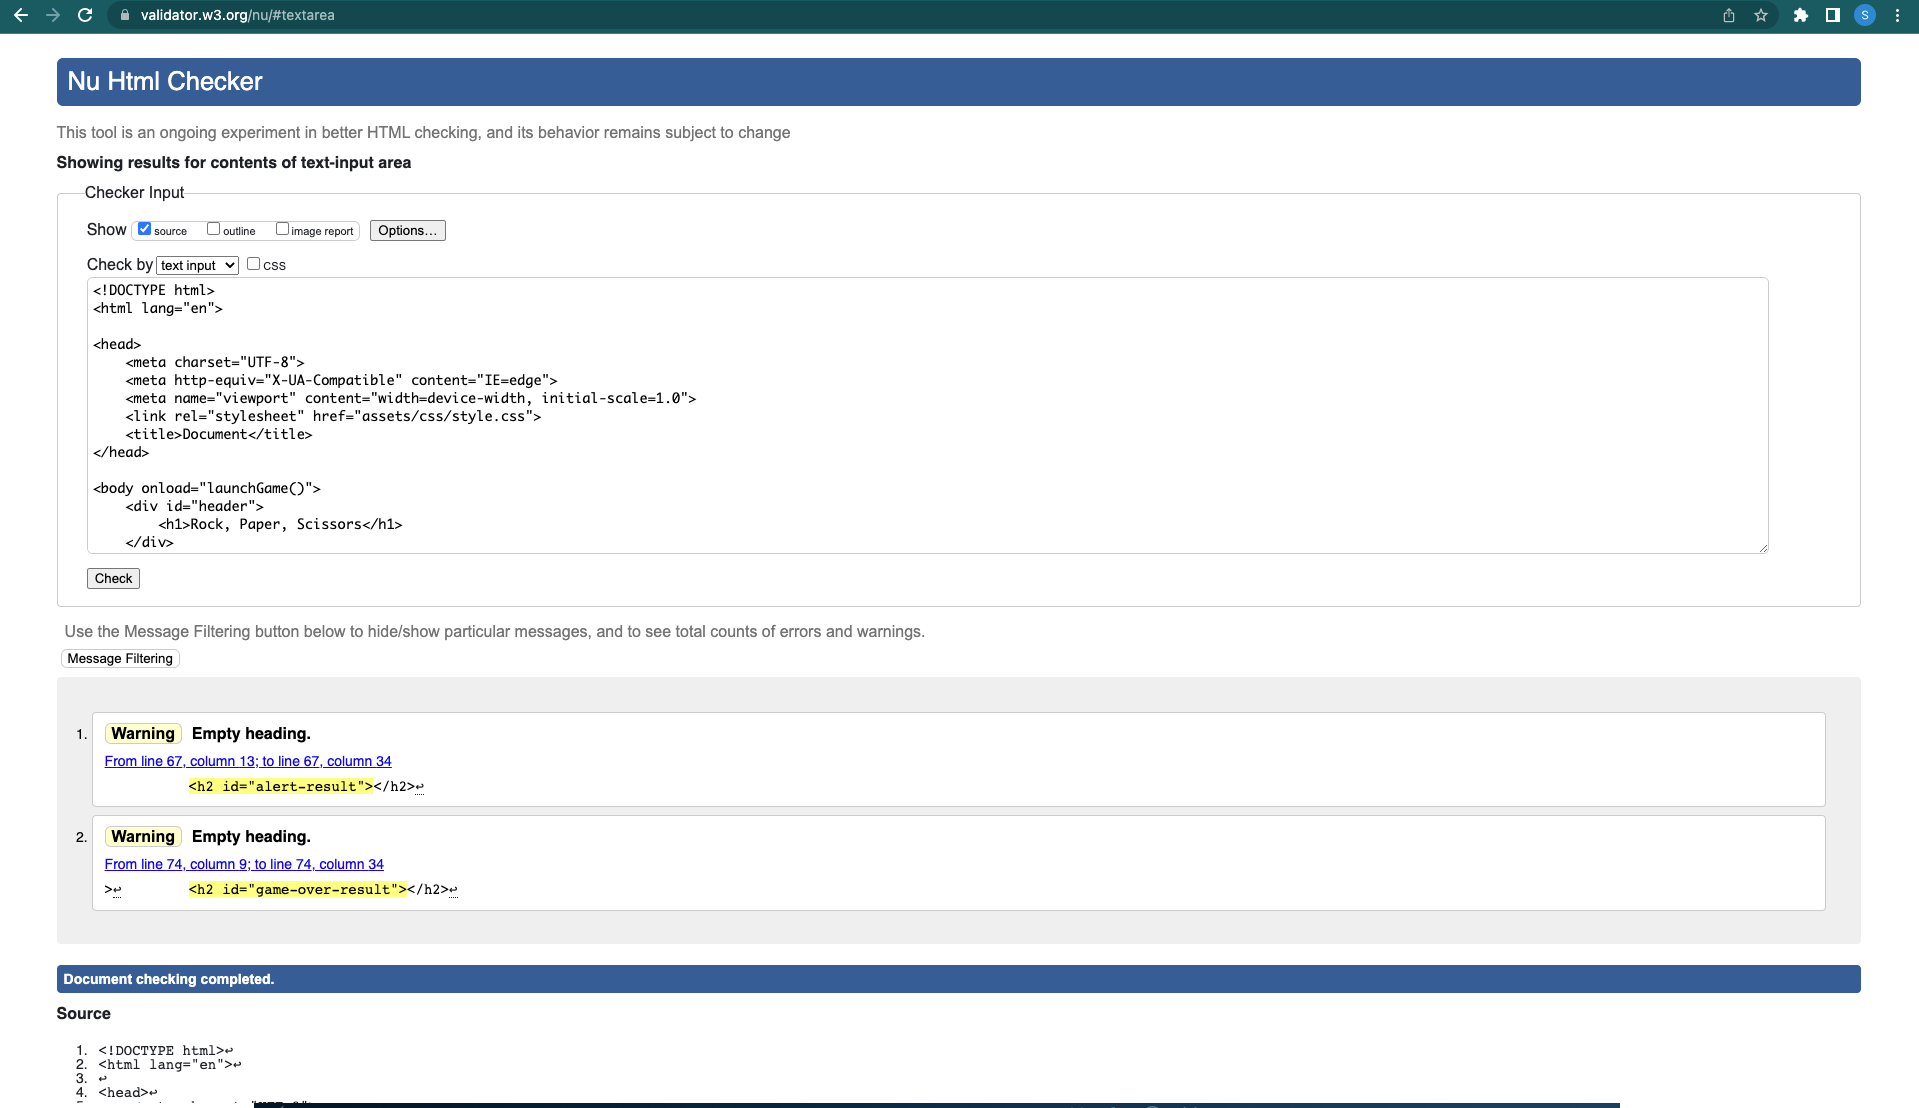
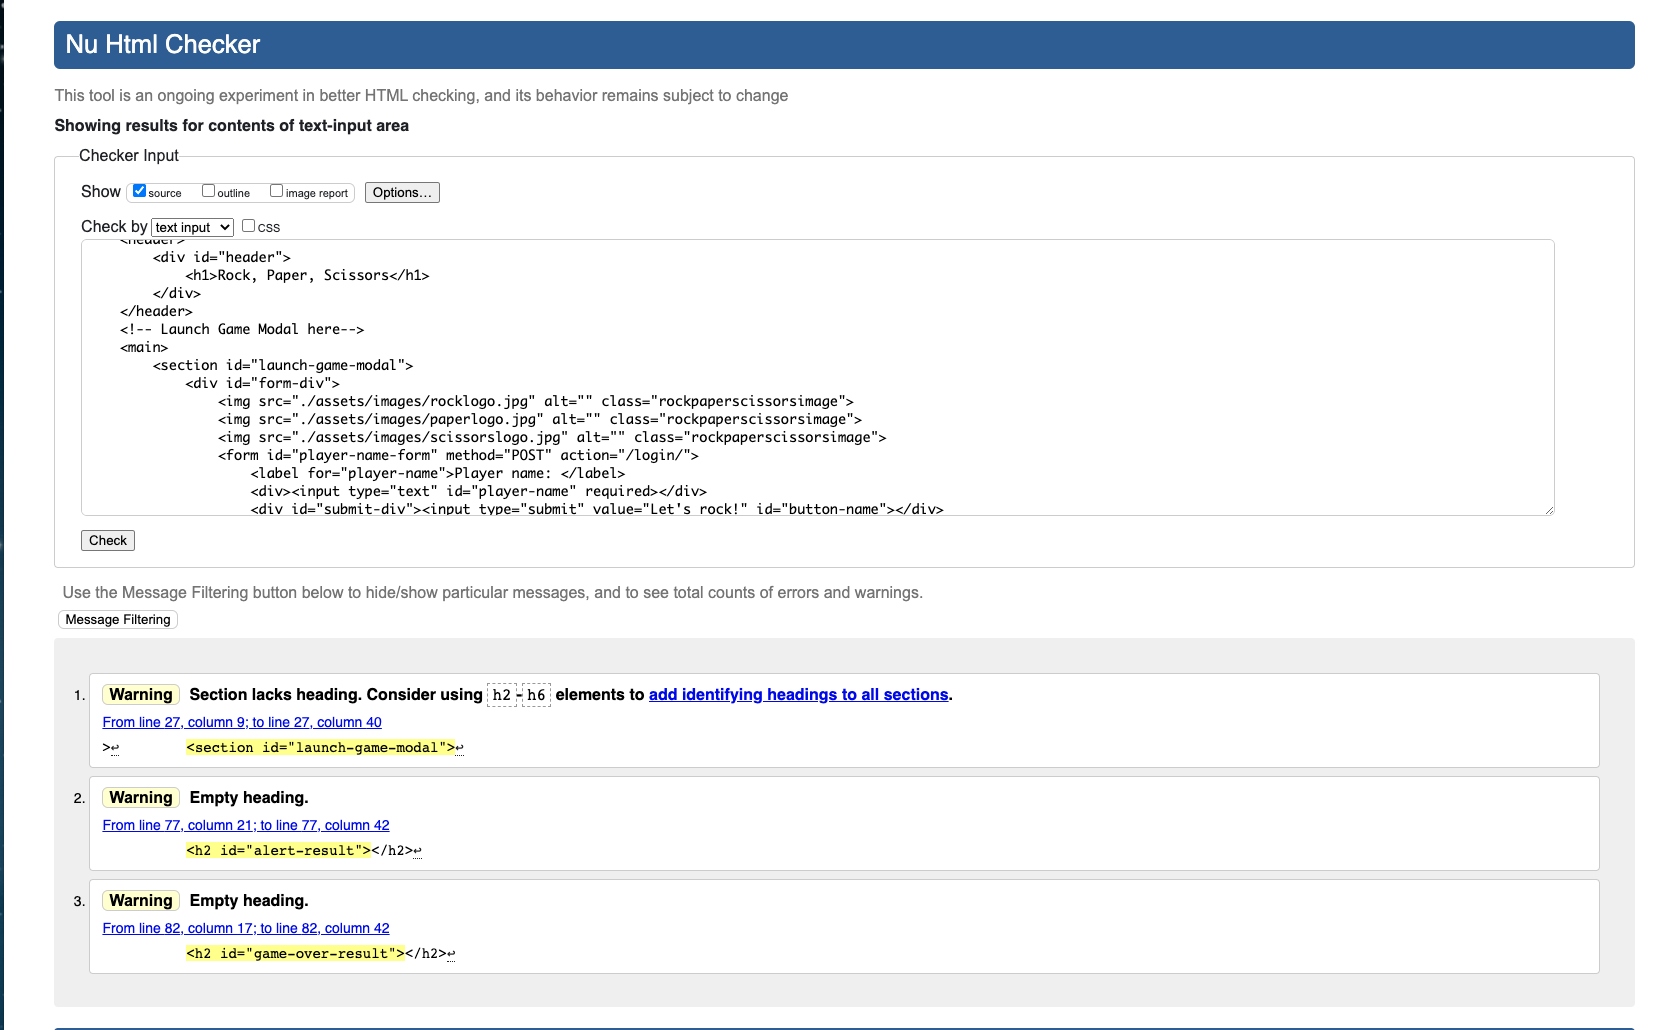
Ammended html adding main and two sections accordingly for semantic clarity, and replaced html validator image

Changed region(s): [[0.0, 0.0, 1.0, 0.6214], [0.0, 0.6524, 0.9928, 1.0], [0.4654, 0.466, 0.5274, 0.4971]]

diff --git a/index.html b/index.html
@@ -7,8 +7,7 @@
     <meta name="viewport" content="width=device-width, initial-scale=1.0">
     <meta name="description"
         content="Interactive game of Rock, Paper Scissors where the user can play against the computer.">
-    <meta name="keywords"
-        content="rock paper scissors, rock, paper, scissors, game, online game">
+    <meta name="keywords" content="rock paper scissors, rock, paper, scissors, game, online game">
     <link rel="stylesheet" href="assets/css/style.css">
     <link rel="apple-touch-icon" sizes="180x180" href="assets/images/apple-touch-icon.png">
     <link rel="icon" type="image/png" sizes="32x32" href="assets/images/favicon-32x32.png">
@@ -25,7 +24,7 @@
     </header>
     <!-- Launch Game Modal here-->
     <main>
-        <div id="launch-game-modal">
+        <section id="launch-game-modal">
             <div id="form-div">
                 <img src="./assets/images/rocklogo.jpg" alt="" class="rockpaperscissorsimage">
                 <img src="./assets/images/paperlogo.jpg" alt="" class="rockpaperscissorsimage">
@@ -36,54 +35,54 @@
                     <div id="submit-div"><input type="submit" value="Let's rock!" id="button-name"></div>
                 </form>
             </div>
-        </div>
-    </main>
-    <!-- Play Round Modal here -->
-    <main>
-        <div id="play-round-modal-1">
-            <div id="round-number-section">
-                <h2 id="round-number-display">Round <span id="round-number">1</span></h2>
-                <img src="./assets/images/underline.png" alt="pen marker underline">
-            </div>
-            <div id="button-area">
-                <button class="selection-button" id="rock">rock</button>
-                <button class="selection-button" id="paper">paper</button>
-                <button class="selection-button" id="scissors">scissors</button>
-            </div>
-        </div>
-        <div id="score-area">
-            <p class="inline">Win: <span id="user-win" class="large-underline-text">0</span></p>
-            <p class="inline">Draw: <span id="draw" class="large-underline-text">0</span></p>
-            <p class="inline">Lose: <span id="user-lose" class="large-underline-text">0</span></p>
-        </div>
-        <div id="round-1-rocks">
-            <div class="inline">
-                <span id="user-round-1-rock"><img src="./assets/images/rock.jpg" alt="Rock image"></span>
-            </div>
-            <div class="inline">
-                <span id="computer-round-1-rock"><img src="./assets/images/rock.jpg" alt="Rock image"></span>
-            </div>
-        </div>
-        <div id="play-round-modal-2">
-            <div id="selected-choices-section">
-                <div class="inline">
-                    <span id="user-image"></span>
-                    <p><span id="insert-player-name"></span>: </p>
+        </section>
+        <!-- Play Round Modal here -->
+        <section>
+            <div id="play-round-modal-1">
+                <div id="round-number-section">
+                    <h2 id="round-number-display">Round <span id="round-number">1</span></h2>
+                    <img src="./assets/images/underline.png" alt="pen marker underline">
                 </div>
-                <div class="inline">
-                    <span id="computer-image"></span>
-                    <p>Computer: </p>
+                <div id="button-area">
+                    <button class="selection-button" id="rock">rock</button>
+                    <button class="selection-button" id="paper">paper</button>
+                    <button class="selection-button" id="scissors">scissors</button>
                 </div>
             </div>
-            <div id="alert-section">
-                <h2 id="alert-result"></h2>
+            <div id="score-area">
+                <p class="inline">Win: <span id="user-win" class="large-underline-text">0</span></p>
+                <p class="inline">Draw: <span id="draw" class="large-underline-text">0</span></p>
+                <p class="inline">Lose: <span id="user-lose" class="large-underline-text">0</span></p>
             </div>
-        </div>
-        <!-- Game Over Modal here -->
-        <div id="game-over-modal">
-            <h2 id="game-over-result"></h2>
-            <button id="refresh-button">Play again!</button>
-        </div>
+            <div id="round-1-rocks">
+                <div class="inline">
+                    <span id="user-round-1-rock"><img src="./assets/images/rock.jpg" alt="Rock image"></span>
+                </div>
+                <div class="inline">
+                    <span id="computer-round-1-rock"><img src="./assets/images/rock.jpg" alt="Rock image"></span>
+                </div>
+            </div>
+            <div id="play-round-modal-2">
+                <div id="selected-choices-section">
+                    <div class="inline">
+                        <span id="user-image"></span>
+                        <p><span id="insert-player-name"></span>: </p>
+                    </div>
+                    <div class="inline">
+                        <span id="computer-image"></span>
+                        <p>Computer: </p>
+                    </div>
+                </div>
+                <div id="alert-section">
+                    <h2 id="alert-result"></h2>
+                </div>
+            </div>
+            <!-- Game Over Modal here -->
+            <div id="game-over-modal">
+                <h2 id="game-over-result"></h2>
+                <button id="refresh-button">Play again!</button>
+            </div>
+        </section>
     </main>
     <footer>
         <div>

diff --git a/README.md b/README.md
@@ -289,7 +289,10 @@ For testing I used the following sources:
 #### [HTML Validator](https://validator.w3.org/)
 
 Tested and no errors found.
-The warnings noted below are for placed that will be filled out using Javascript code.
+Warnings:
+* The empty headers are for spaced that will be filled out using Javascript code
+* The section area warning suggesting a h2-h6 element: I don't think the form needs a header as it is pretty self explanatory.
+
 
 <img src="assets/images/html-validator.png" width="800px">
 
@@ -476,6 +479,7 @@ CREDITS:
 * A couple of the code institute tutors helped me with some issues I was having. 
     * My gameOver function was getting quite heavy and becoming problematic particularly in displaying block and none. A tutor at code institute recommended I  use the an onload instead. This made things run much smoothly. [Page Onload](https://www.w3schools.com/jsref/event_onload.asp).
     * When I encountered the end result bug, I had help from Oisin at Code Institute. He suggested I try to solve it by changing the order of my functions  within the playRound(e) function. We would instead place updateRound() at the ends of the function. This fixed the issue.
+
 <img src="assets/images/result-error-bug-2.png" width="300px"><img src="assets/images/result-error-bug-3.png" width="300px">
 
 
